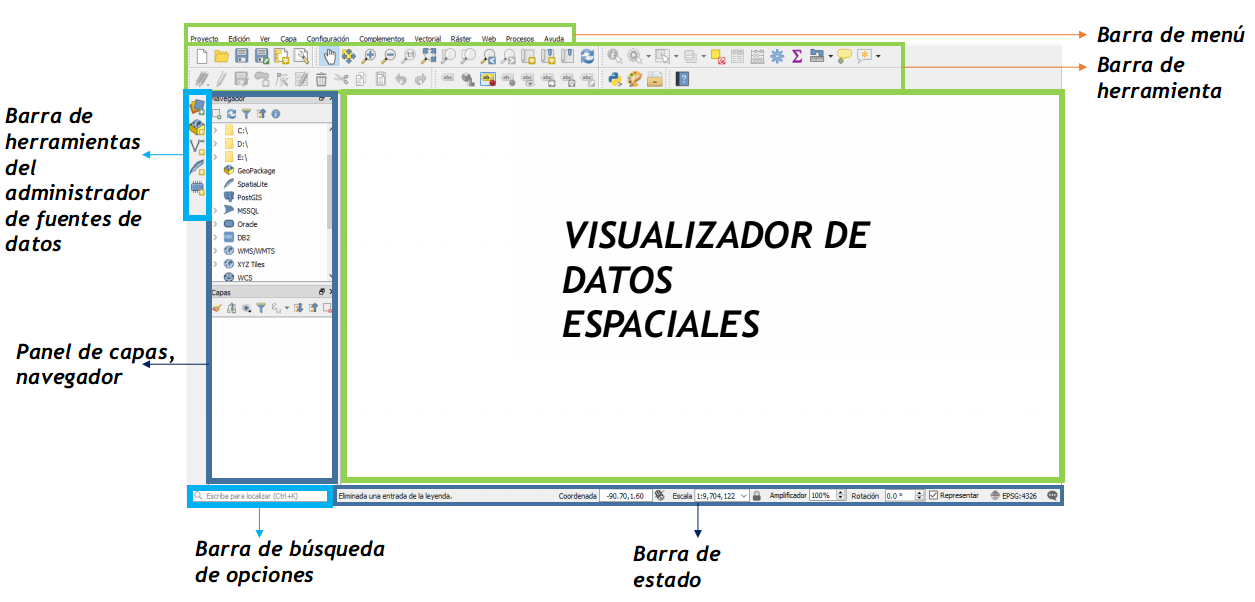
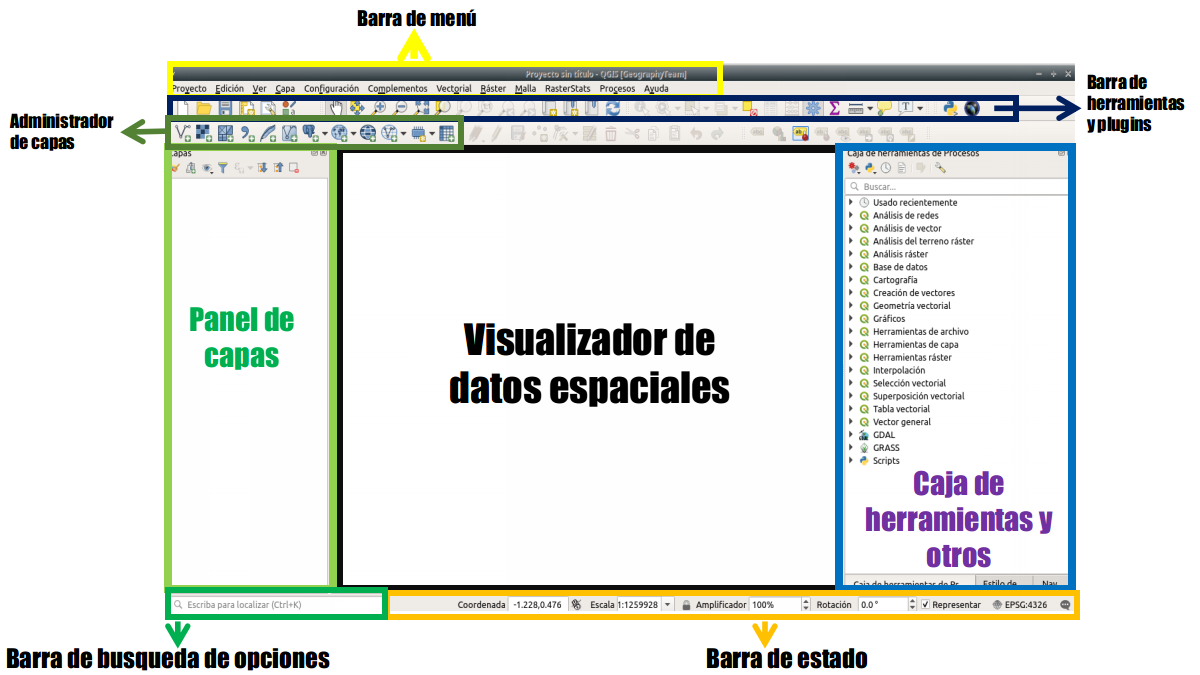
modificaciones

Changed region(s): [[0.0, 0.0, 1.0, 1.0]]

diff --git a/Sesión01/Slide.html b/Sesión01/Slide.html
@@ -252,19 +252,83 @@ class: center, middle, inverse
 
 # Parte práctica 
 ---
-# Personalización de la Interfaz Gráfica
-.pull-left[
-Load QSS es un plugin de QGIS que permite personalizar la apariencia de la interfaz gráfica a criterio del mismo usuario.
+# Descargando e instalando el software QGIS
+La instalación **depende del sistema operativo (SO)**, para este ejemplo realizaremos el procedimiento de instalación para en el SO de Windows.
 
-&lt;img src="img/personalizacion.png" width="1001" style="display: block; margin: auto;" /&gt;
+.pull-left[
+&lt;center&gt;Instalador autónomo QGIS&lt;/center&gt;
+&lt;img src="img/insta01.png" width="450" height="400" style="display: block; margin: auto;" /&gt;
+]
+
+.pull-right[
+&lt;center&gt;Instalador de red OSGeo4W&lt;/center&gt;
+&lt;img src="img/insta02.png" width="750" height="450" style="display: block; margin: auto;" /&gt;
+]
+
+---
+# Componentes de la Interfaz Gráfica de Usuario(**GUI**) de QGIS
+
+&lt;img src="img/gui.png" width="970" height="500" /&gt;
+
+---
+# Explorando los componentes que presenta la barra de menú
+
+&lt;img src="img/menu.gif" width="950" height="450" style="display: block; margin: auto;" /&gt;
+
+---
+# Explorarando la caja de herramientas o toolbox de QGIS
+
+&lt;img src="img/toolbox.gif" width="950" height="450" style="display: block; margin: auto;" /&gt;
+
+---
+# ¿Qué son los plugins y para que sirve?
+
+.pull-left[
+Los plugins son herramientas o módulos adicionales que sirven para realizar tareas o geoprocesos que no están incluidos en el mismo programa principal de QGIS.
+Los lenguajes de programación que son empleados por los usuarios para crear plugins de QGIS incluyen a los lenguajes de programación como C++ y **Python**.
+
+&lt;img src="img/pyton.png" width="400" height="200" style="display: block; margin: auto;" /&gt;
+
 ]
 
 .pull-right[
 
-&lt;img src="img/personalizacion2.png" width="1372" style="display: block; margin: auto;" /&gt;
+&lt;img src="img/plugin.png" width="400px" height="400" style="display: block; margin: auto;" /&gt;
 
 ]
 
+---
+# Cómo instalar un plugin?  
+
+&lt;img src="img/installingplugin.gif" width="950" height="450" style="display: block; margin: auto;" /&gt;
+
+---
+# Instalacion de plugin para personalizar **GUI**
+
+
+.pull-left[
+
+Load QSS es un plugin de QGIS que permite personalizar la apariencia de la interfaz gráfica a criterio del mismo usuario.
+&lt;br&gt;
+
+&lt;img src="img/personalizacion.png" width="250px" height="150" style="display: block; margin: auto;" /&gt;
+]
+
+.pull-right[
+
+&lt;img src="img/personalizacion2.png" width="700" height="250" style="display: block; margin: auto 0 auto auto;" /&gt;
+]
+&lt;br&gt;
+&lt;br&gt;
+&lt;br&gt;
+En las versiones últimas de **QGIS** como la 3.4 y 3.8 presentan dos tipos de estilos adicionales (nigth y gray), estos estan ubicados en **configuración &gt; generales &gt; tema**  
+
+---
+# Propina 🗺
+
+&lt;img src="img/paper.png" width="1665" height="420" style="display: block; margin: auto;" /&gt;
+
+##### _Mas información_ [Paper aquí 👇](https://www.mdpi.com/2072-4292/8/5/413)
 ---
 # Instalación de plugin
 &lt;img src="img/installingplugin.gif" height="480" style="display: block; margin: auto;" /&gt;
@@ -274,7 +338,7 @@ Load QSS es un plugin de QGIS que permite personalizar la apariencia de la inter
 
 &lt;img src="img/MiprimerProject.png" width="1760" height="480" /&gt;
 
-##### _Insumos_ [clicl aquí](https://github.com/barja8/OsgeoLiveUNMSM/blob/master/Sesi%C3%B3n01/Insumos/MapaBase.tar)
+##### _Insumos_ [click aquí](https://github.com/barja8/OsgeoLiveUNMSM/raw/master/Sesi%C3%B3n01/Insumos/MapaBase.tar)
 ---
 background-color:cover
 class:center
